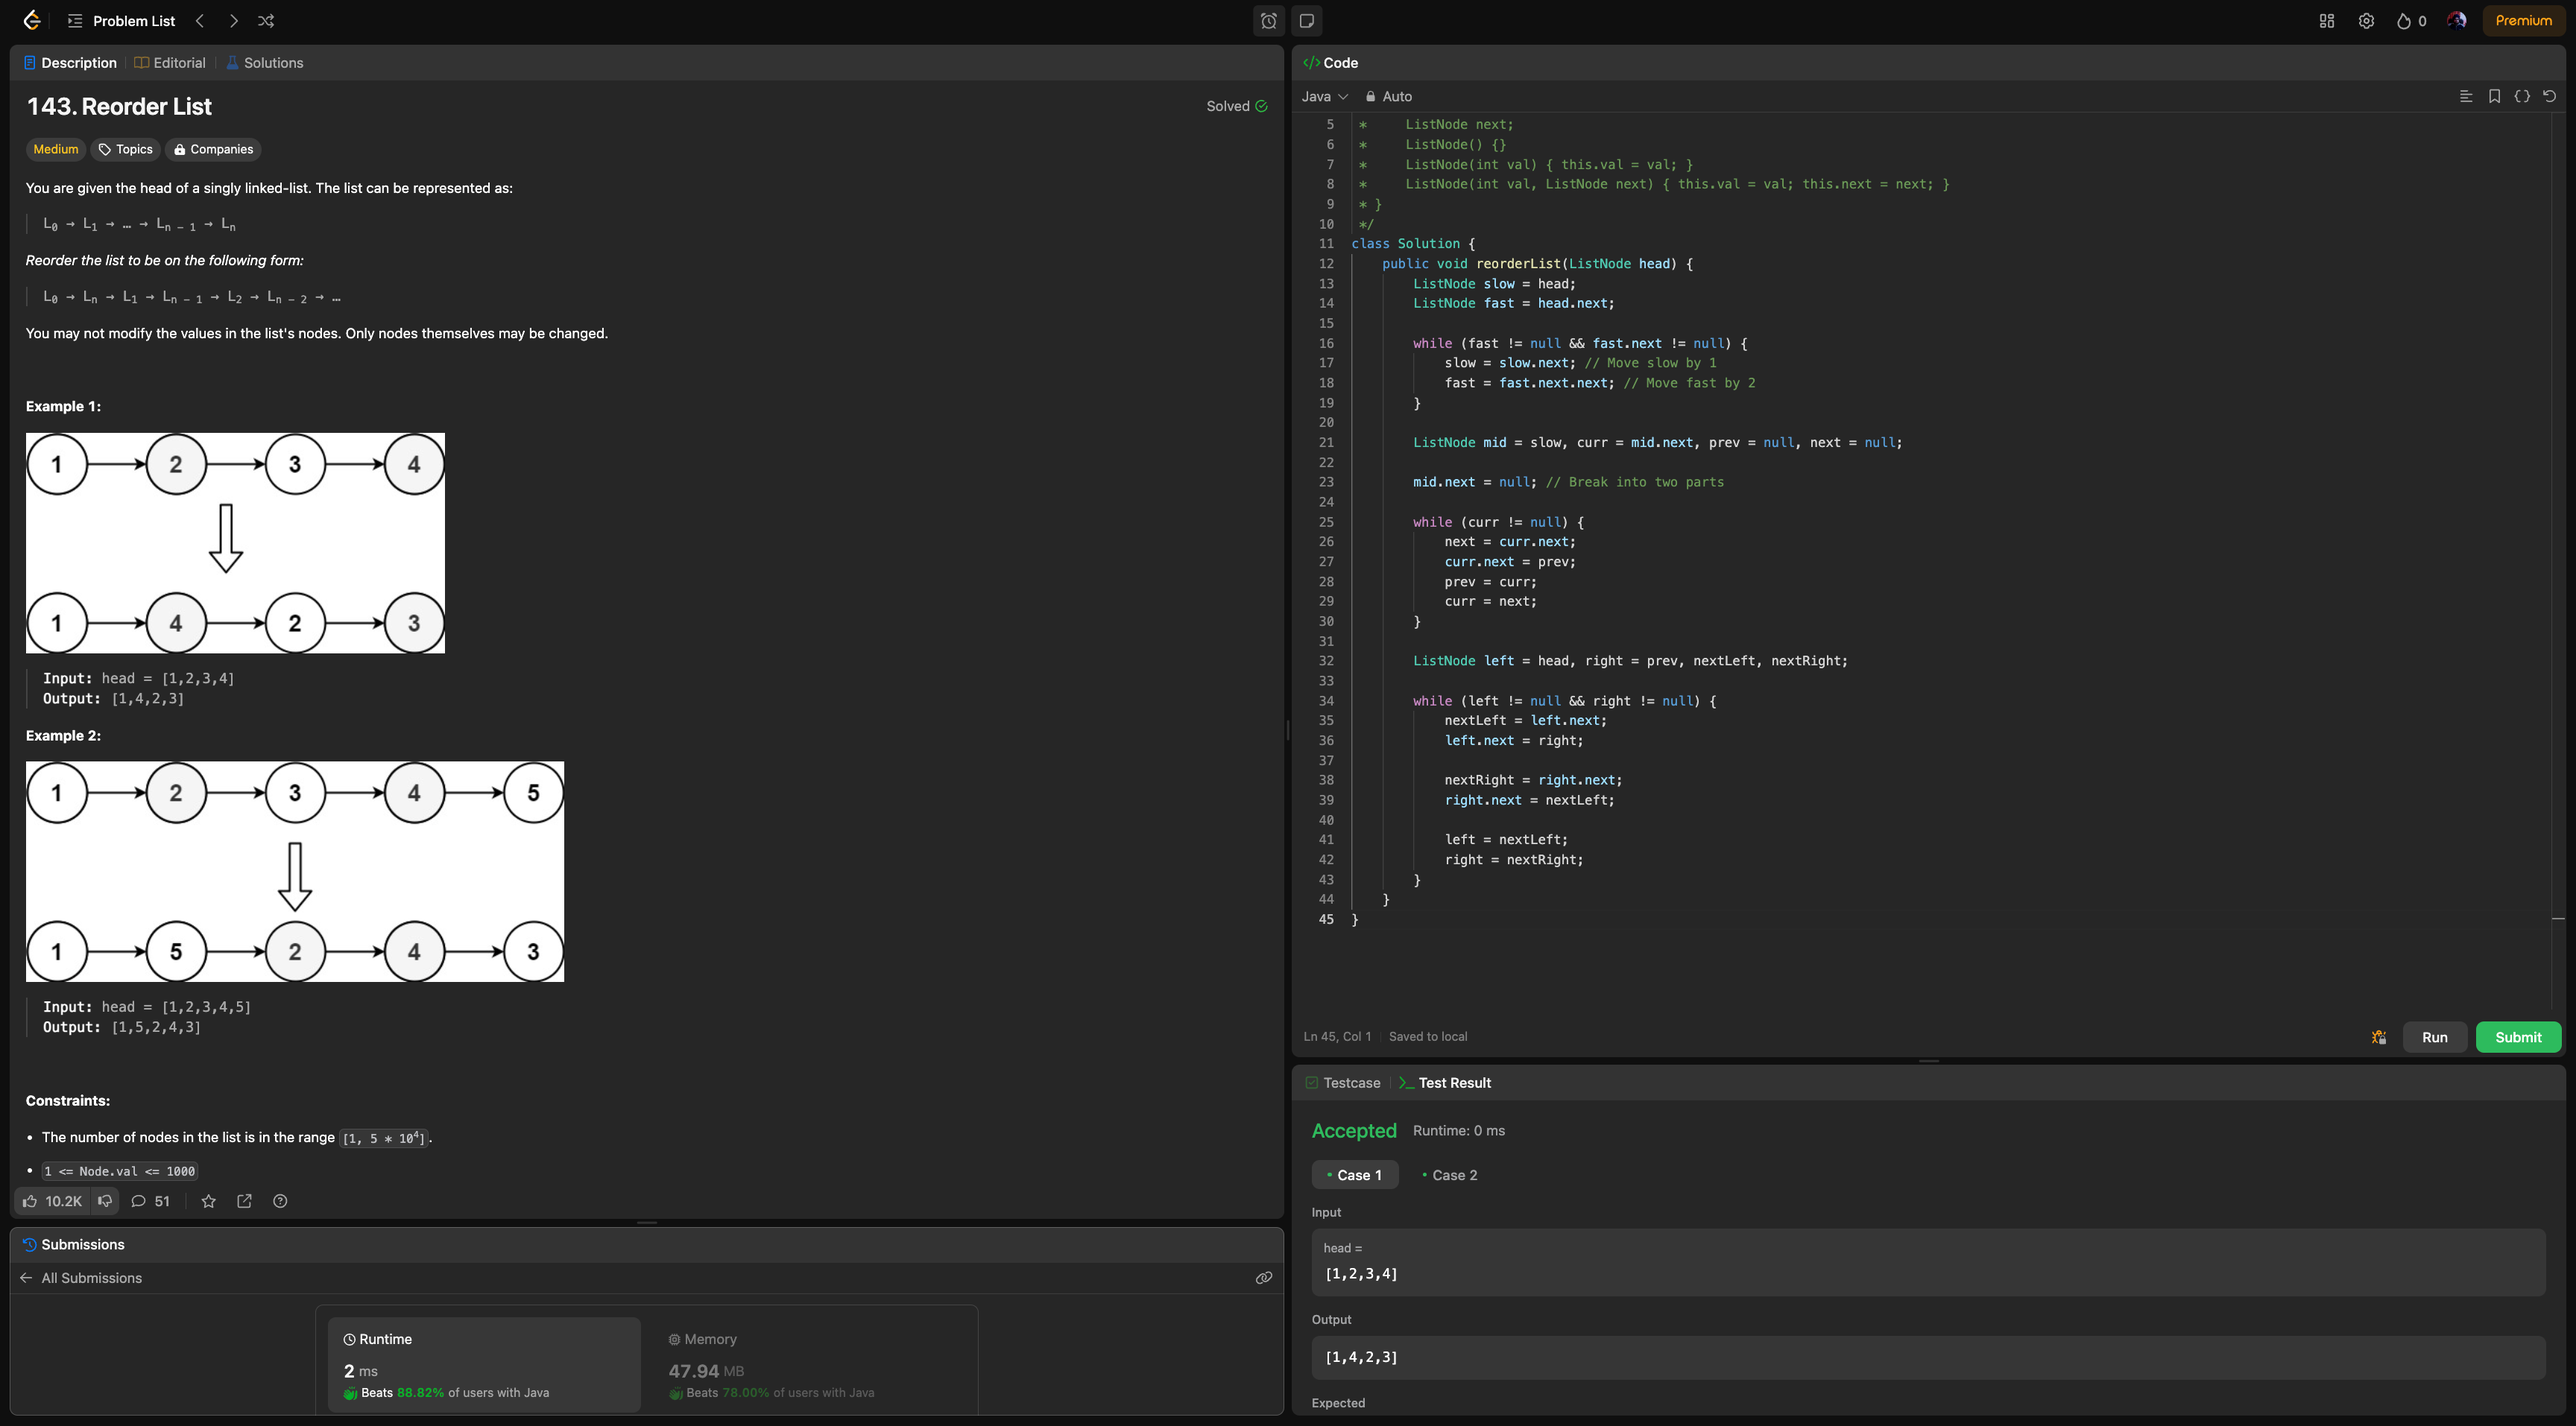
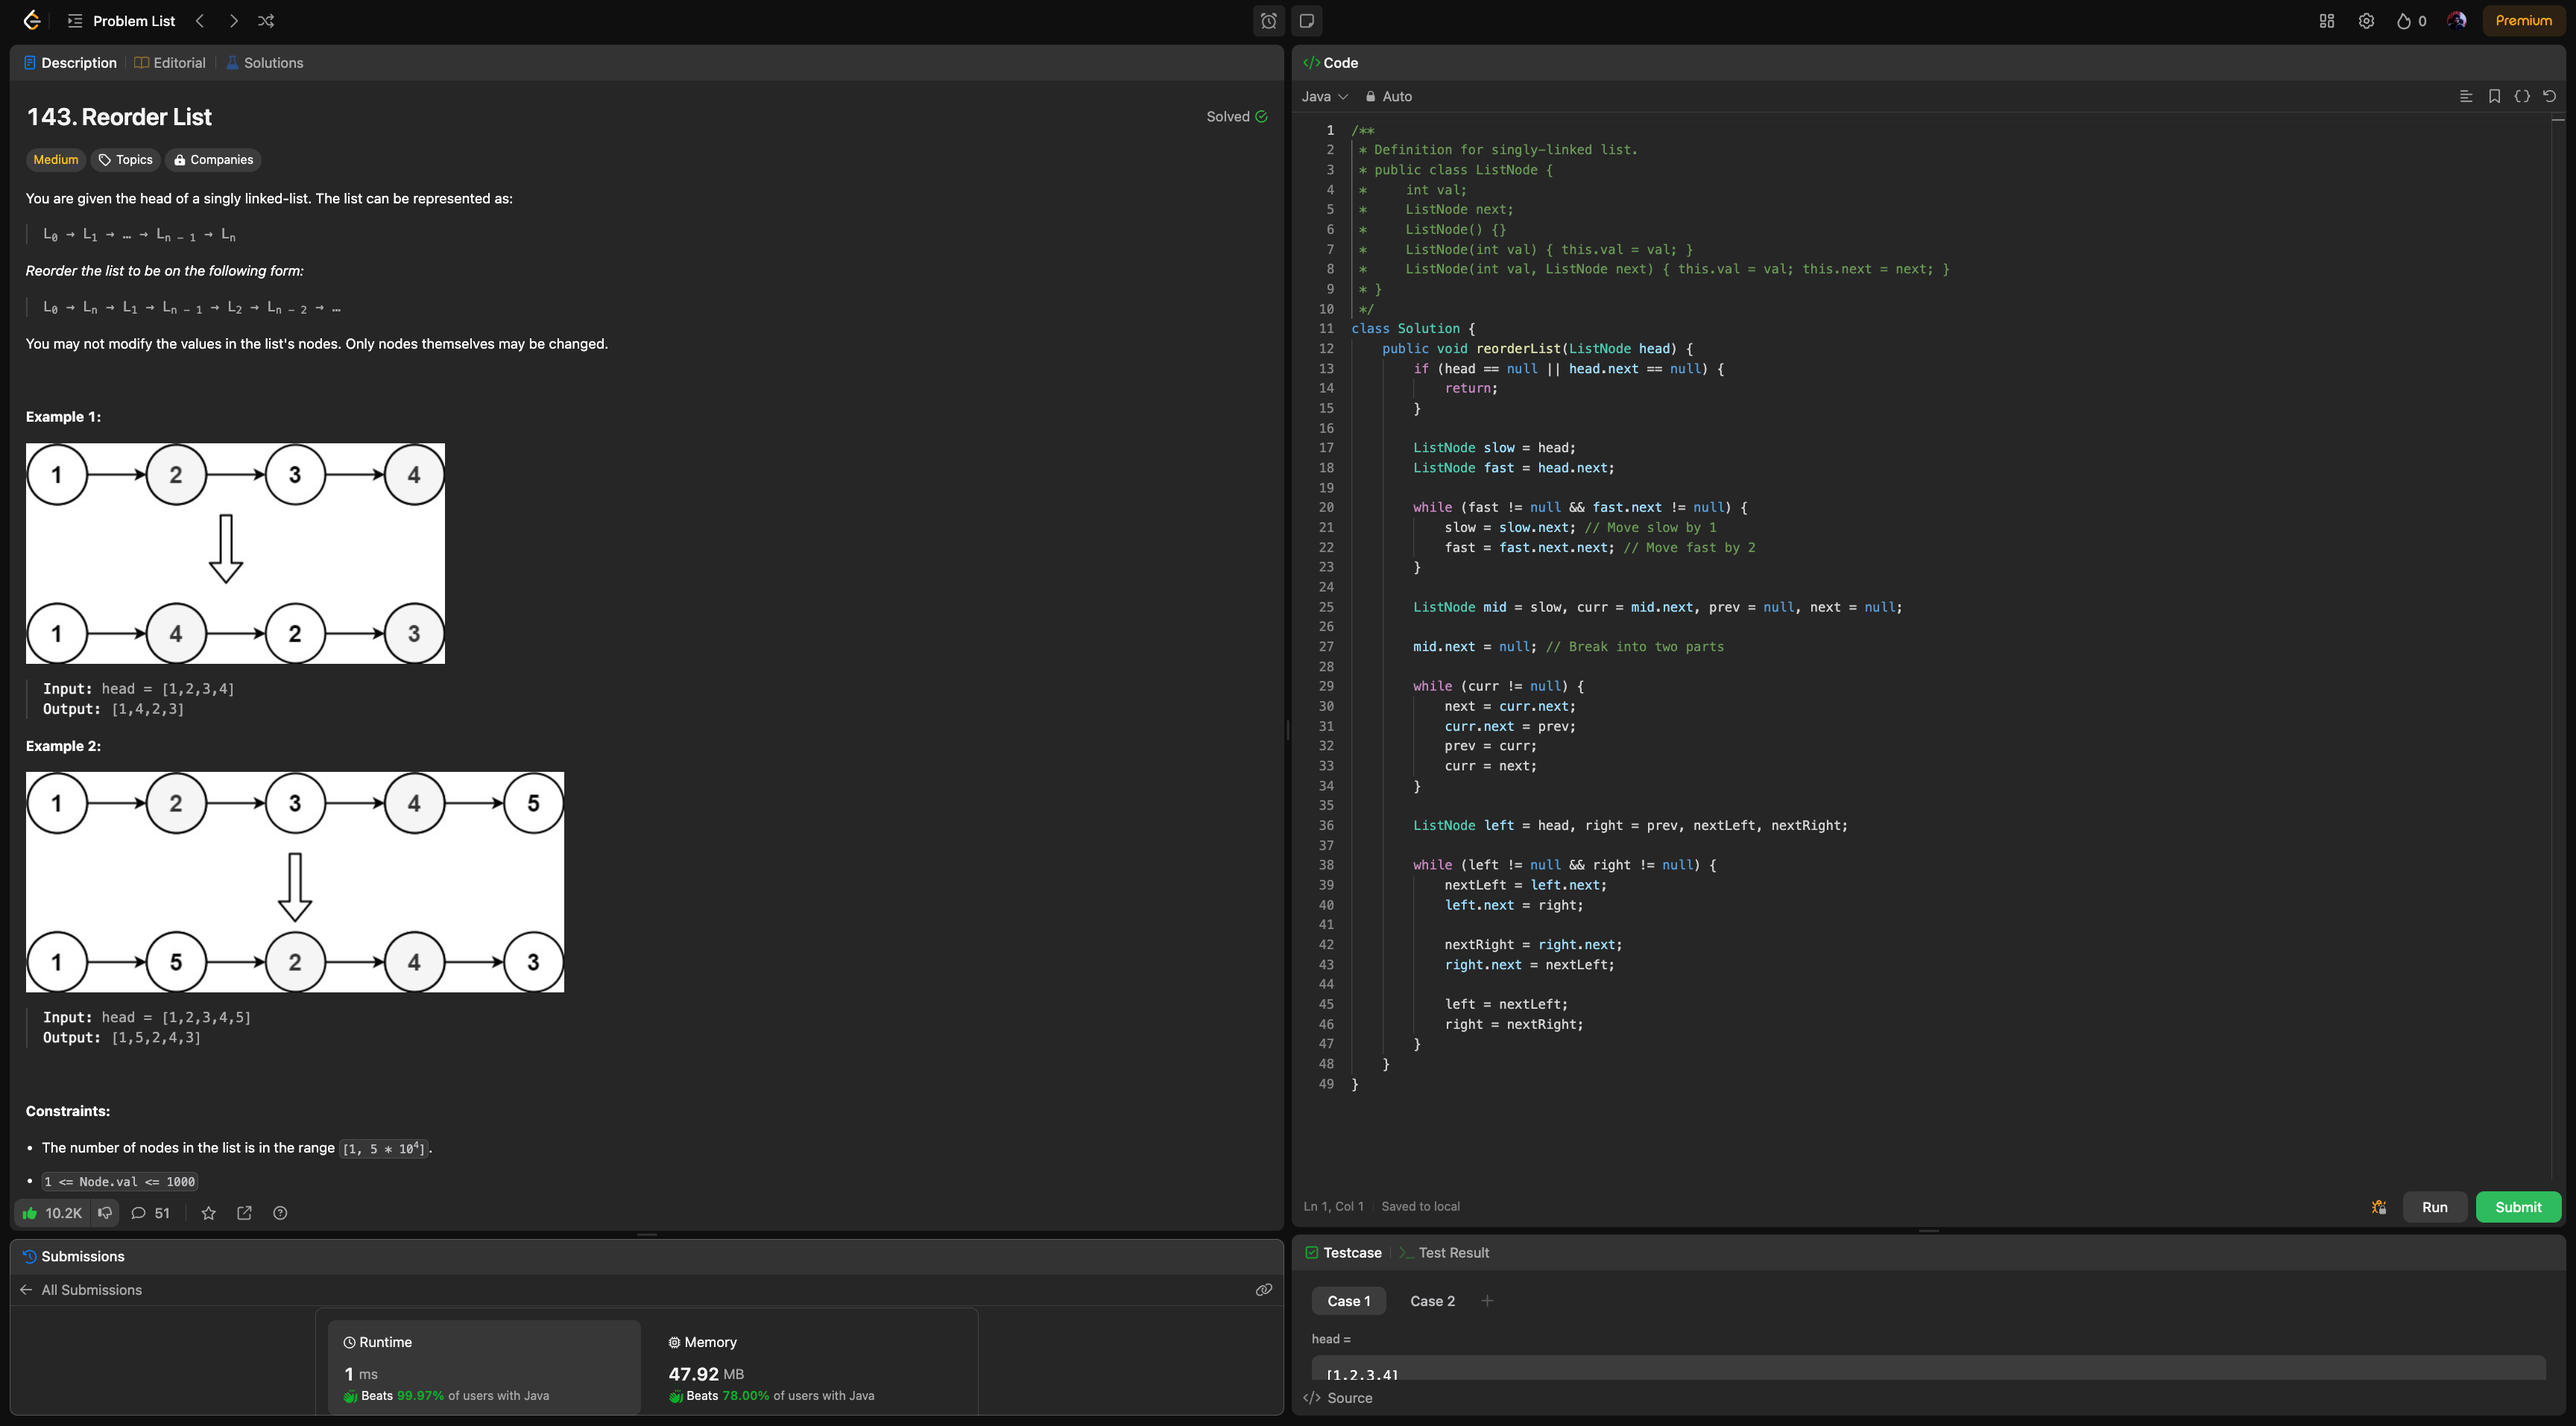
Handle edge case

diff --git a/173-reorder-list/001-solution/Solution.java b/173-reorder-list/001-solution/Solution.java
@@ -32,6 +32,10 @@ public class Solution {
 
     // Actual solution starts here (for LeetCode submission)
     public void reorderList(ListNode head) {
+        if (head == null || head.next == null) {
+            return;
+        }
+
         ListNode slow = head;
         ListNode fast = head.next;
 
